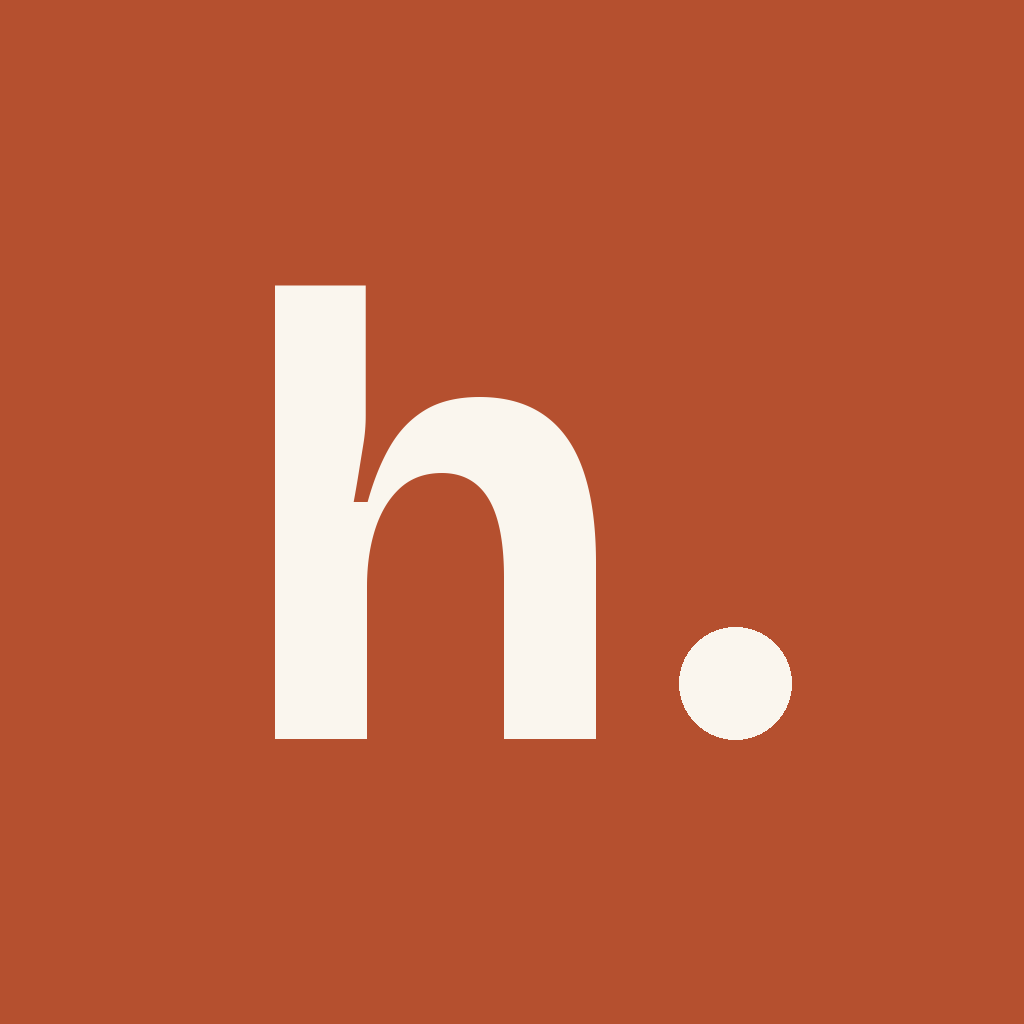
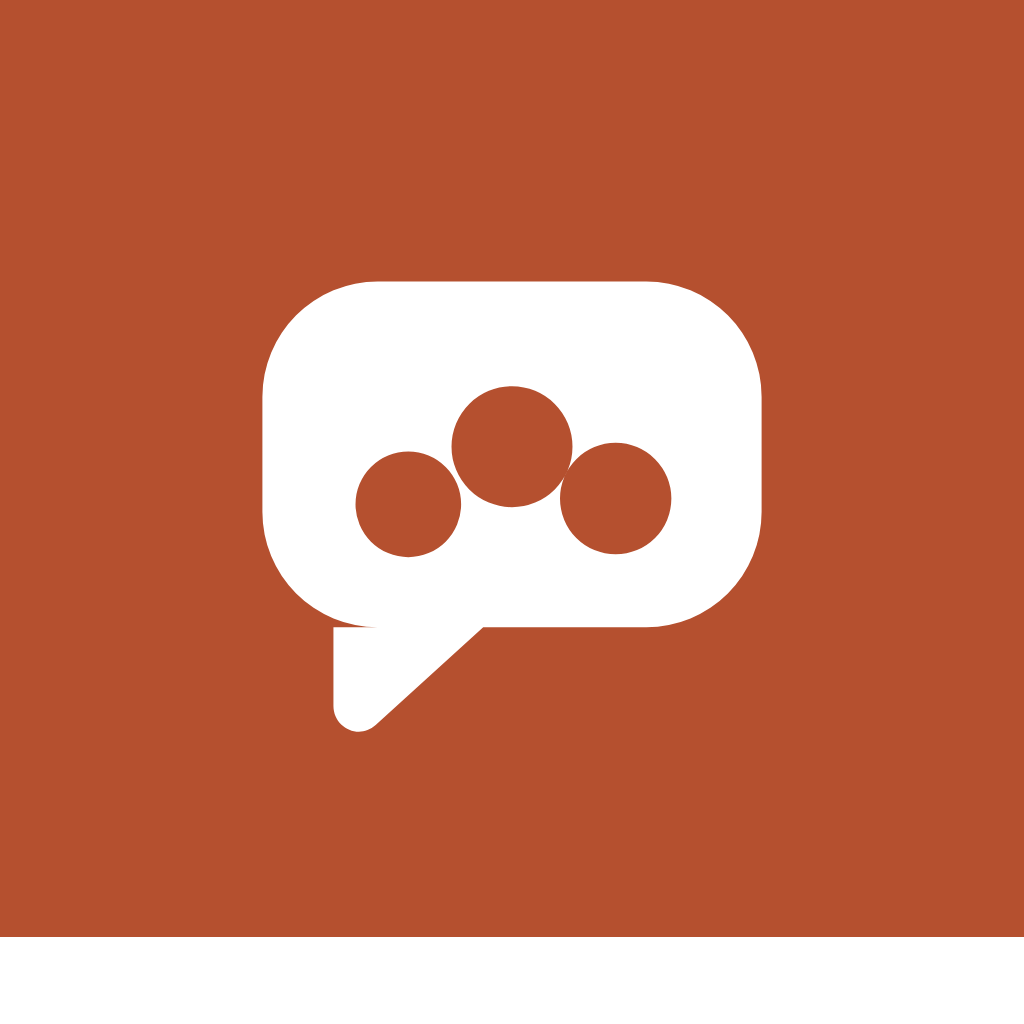
New mark: three heads leaning together inside a speech bubble
The old mark claimed in BRAND.md to be figures leaning into a huddle, but
drew one large head with two faded blobs behind it, and leaned on opacity
0.75 for depth. It was also the only geometrically perfect thing in a
design language whose illustrations are deliberately hand-drawn. Worse,
it was not actually the app's mark: mobile shipped an unrelated 'h.'
monogram, so the brand was two different marks depending on which client
you had installed — the exact thing the brand guide forbids.

The new mark puts the bubble first because an icon on a home screen has
about a tenth of a second to say what kind of app this is. The huddle
lives inside it: three heads, the middle one slightly larger and lifted,
the way the person leaning furthest in always is. The radii are
deliberately unequal — matched circles read as a diagram, and the small
differences are what make it read as people.

The heads are cut out of the bubble with evenodd rather than drawn over
it, so the whole thing is one path in one colour. That is what lets the
same artwork serve an ember tile, a cream nav bar, and Android's
monochrome notification tray with no second copy in existence.

Two directions were tried and rejected, and BRAND.md now records them so
nobody spends the afternoon rediscovering them: heads evenly spaced
around a closed ring always resolve into a flower (five petals, or a
four-leaf clover at four), and two heads above one below reads as a face
at any size over about 40px.
[…]

Changed region(s): [[0.25, 0.25, 0.7812, 0.7188], [0.0, 0.9062, 1.0, 1.0]]

diff --git a/src/components/logo.tsx b/src/components/logo.tsx
@@ -1,6 +1,35 @@
 import { cn } from "@/lib/utils";
 
-/** Huddl mark: four rounded "students" leaning into a huddle. */
+/**
+ * The Huddl mark: three heads leaning together inside a speech bubble.
+ *
+ * The bubble is the category — this is a place where people talk, and an
+ * icon on a home screen has about a tenth of a second to say so. The three
+ * heads inside are the huddle: the middle one sits a little larger and a
+ * little higher, the way the person leaning furthest in always does.
+ *
+ * They are cut out of the bubble rather than drawn on top of it, so the
+ * whole mark is one path in one color. That is what lets it sit on an ember
+ * tile, in a cream nav bar, and in a monochrome Android notification tray
+ * without a second artwork existing anywhere.
+ *
+ * The three radii are deliberately unequal (2.75 / 3.15 / 2.9). Perfectly
+ * matched circles read as a diagram; the small differences are what make it
+ * read as people, and they match the hand-drawn imperfection the
+ * illustrations are built on.
+ *
+ * Two arrangements were rejected on the way here and are worth not
+ * re-discovering: heads evenly spaced around a closed ring always resolve
+ * into a flower (five petals, or a four-leaf clover at n=4), and two heads
+ * above one below reads as a face — two eyes and an open mouth — at any
+ * size above about 40px.
+ */
+const MARK_PATH =
+  "M9 4h14a6 6 0 0 1 6 6v6a6 6 0 0 1-6 6h-8.5l-5.6 5.1c-.9.8-2.2.1-2.2-1V22H9a6 6 0 0 1-6-6v-6a6 6 0 0 1 6-6z " +
+  "M7.85 15.6a2.75 2.75 0 1 0 5.5 0a2.75 2.75 0 1 0-5.5 0 " +
+  "M12.85 12.6a3.15 3.15 0 1 0 6.3 0a3.15 3.15 0 1 0-6.3 0 " +
+  "M18.5 15.3a2.9 2.9 0 1 0 5.8 0a2.9 2.9 0 1 0-5.8 0";
+
 export function LogoMark({ className }: { className?: string }) {
   return (
     <svg
@@ -9,12 +38,8 @@ export function LogoMark({ className }: { className?: string }) {
       aria-label="Huddl"
       className={cn("size-8", className)}
     >
-      <g fill="currentColor">
-        <circle cx="16" cy="7.5" r="4.1" />
-        <circle cx="7" cy="14.5" r="3.4" opacity="0.75" />
-        <circle cx="25" cy="14.5" r="3.4" opacity="0.75" />
-        <path d="M16 13.5c-5.6 0-9.5 3.6-9.5 9.2 0 2.6 1.9 4.3 4.6 4.3h9.8c2.7 0 4.6-1.7 4.6-4.3 0-5.6-3.9-9.2-9.5-9.2z" />
-      </g>
+      {/* evenodd is what makes the heads holes rather than a second shape. */}
+      <path d={MARK_PATH} fill="currentColor" fillRule="evenodd" />
     </svg>
   );
 }

diff --git a/docs/BRAND.md b/docs/BRAND.md
@@ -72,12 +72,27 @@ notes anyway. Specifically:
 
 ## 3. Logo
 
-The mark is **rounded figures leaning into a huddle** — heads together, one
-shape. It's drawn in `currentColor`, so it inherits whatever text color you set.
+The mark is **three heads leaning together inside a speech bubble**.
+
+The bubble is the category: this is a place where people talk, and an icon on a
+home screen has about a tenth of a second to say so. The three heads inside are
+the huddle — the middle one a little larger and a little higher, the way the
+person leaning furthest in always is. They're *cut out* of the bubble rather
+than drawn on top of it, so the entire mark is one path in one color, drawn in
+`currentColor`. That's what lets it sit on an ember tile, in a cream nav bar,
+and in a monochrome Android notification tray without a second artwork existing
+anywhere.
+
+Two arrangements were tried and rejected; they're recorded here so nobody
+re-discovers them. Heads evenly spaced around a **closed** ring always resolve
+into a flower — five petals, or a four-leaf clover at four. And **two heads
+above one below** reads as a face (two eyes and an open mouth) at any size over
+about 40 px.
 
 | Usage | Rule |
 | --- | --- |
 | Component | Always render via `<LogoMark />` or `<Wordmark />` from `src/components/logo.tsx`. Never re-draw or export flattened copies. |
+| App icons | All of `mobile/assets/images/*.png` and `public/icons/*.svg` are generated from the same path as `<LogoMark />`. If the mark changes, regenerate them together — the mobile icon was an unrelated "h." monogram for a while, and one mark that is actually one mark is the point. |
 | Color | Mark in `text-brand` next to foreground-colored wordmark text (the default). One-color contexts: all-foreground or all-`brand-fg` on brand backgrounds. App-icon / tile contexts: `brand-fg` mark on a **solid ember** (`bg-brand`) tile — the gradient tile is retired. |
 | Wordmark | "huddl", lowercase, bold, tight tracking — exactly as `<Wordmark />` renders it. |
 | Minimum size | Mark: 20 px. Wordmark: 88 px wide. Below that, use the mark alone. |
